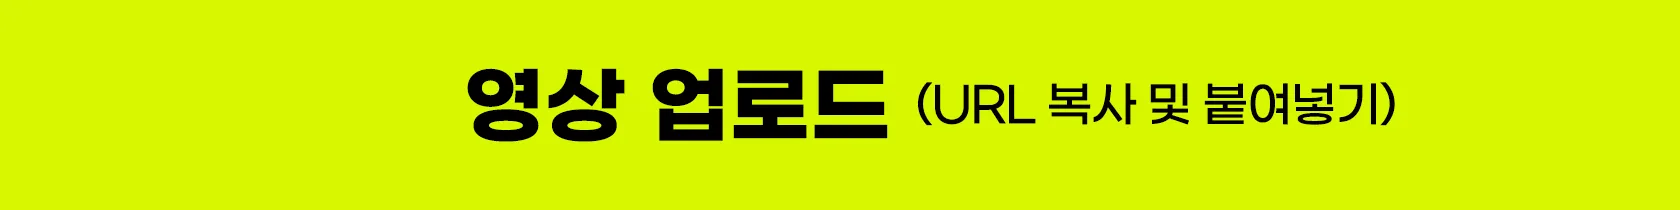
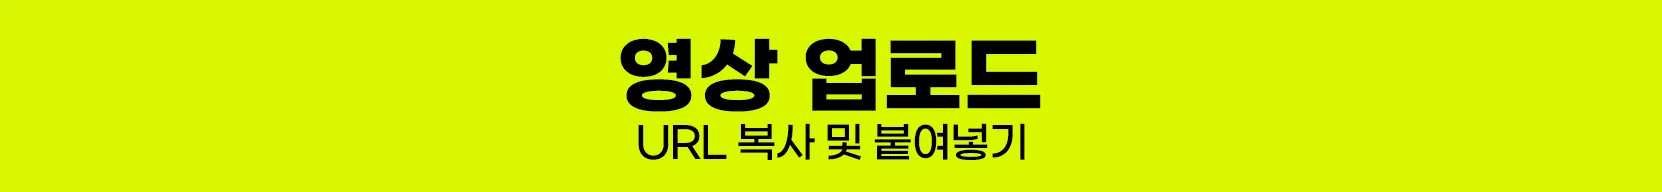
feat: improve event page

Changed region(s): [[0.2762, 0.1875, 0.8285, 0.8438]]

diff --git a/src/app/(home)/_components/EnterInformation.tsx b/src/app/(home)/_components/EnterInformation.tsx
@@ -62,107 +62,110 @@ const EnterInformation = () => {
   }, [showModal])
 
   return (
-    <div className='w-full bg-black min-h-screen bg-[url("/images/information/08-rights-bg.webp")] bg-no-repeat bg-contain h-[300px] lg:h-[1100px]'>
-      <div className='container max-w-[1250px] mx-auto relative'>
-        <Image
-          src={"/images/information/do-05-shoes.webp"}
-          alt=""
-          width={isMobile ? 300 : 680}
-          height={710}
-          className="absolute top-20 left-0 -translate-x-[650px] object-contain z-50 hidden 3xl:block"
-        />
-        <div className='flex flex-col items-center pt-20 lg:pt-0'>
-          <div className='relative mb-[39px]'>
-            <Image src='/images/participate/05-titlebox.webp' alt='' width={110} height={52} />
-            <p className='absolute top-1 left-[33%] text-[#1a1a1a] text-[32px] font-bold'>03</p>
-          </div>
-          <p className='text-white text-3xl lg:text-[40px] font-bold mb-[35px] lg:leading-[53px] lg:-tracking-[0.8px]'>신청자 정보를 <br />
-            입력해 주세요!
-          </p>
+    <div className='w-full bg-[#1b1e9d]'>
+      <div className='md:bg-[url("/images/information/08-rights-bg.webp")] bg-opacity-15 bg-no-repeat bg-contain bg-center md:h-[1000px] lg:h-[1313px] aspect-[16/9] 
+      w-full md:w-[800px] md:-translate-x-[60px] lg:w-[1300px] lg:-translate-x-[200px] 2xl:w-[1520px] 2xl:-translate-x-[300px] 3xl:w-[1920px] 3xl:-translate-x-[370px]'>
+        <div className='container max-w-[1250px] mx-auto relative'>
+          <Image
+            src={"/images/information/do-05-shoes.webp"}
+            alt=""
+            width={isMobile ? 300 : 680}
+            height={710}
+            className="absolute -top-40 left-0 -translate-x-[650px] object-contain z-50 hidden 3xl:block"
+          />
+          <div className='flex flex-col items-center pt-20 lg:pt-24'>
+            <div className='relative mb-[39px]'>
+              <Image src='/images/participate/05-titlebox.webp' alt='' width={110} height={52} />
+              <p className='absolute top-1 left-[33%] text-[#1a1a1a] text-[32px] font-bold'>03</p>
+            </div>
+            <p className='text-white text-3xl lg:text-[40px] font-bold mb-[35px] lg:leading-[53px] lg:-tracking-[0.8px]'>신청자 정보를 <br />
+              입력해 주세요!
+            </p>
 
-          <form onSubmit={handleSubmit(onSubmit)} className='flex flex-col items-center gap-[18px]'>
-            <input
-              type="text"
-              placeholder="성함"
-              {...register("name", {
-                // required: true, maxLength: 80 
-              })}
-              className='text-center text-lg lg:text-2xl text-[#b3b3b3] py-4 lg:py-6 px-[60px] lg:px-[120px] outline-none'
-            />
-            <input
-              type="text"
-              placeholder='생년월일'
-              {...register("birthDate",)}
-              className='text-center text-lg lg:text-2xl text-[#b3b3b3] py-4 lg:py-6 px-[60px] lg:px-[120px] outline-none'
-            />
-
-            <input
-              type="tel"
-              placeholder="연락처"
-              {...register("phoneNumber", {
-                // required: "전화번호는 필수입니다",
-                // pattern: {
-                //   value: /^01[0-9]{1}-?[0-9]{3,4}-?[0-9]{4}$/,
-                //   message: "유효하지 않은 전화번호입니다"
-                // },
-                // maxLength: {
-                //   value: 13,
-                //   message: "전화번호는 13자리를 초과할 수 없습니다"
-                // }
-              })}
-              className='text-center text-lg lg:text-2xl text-[#b3b3b3] py-4 lg:py-6 px-[60px] lg:px-[120px] outline-none'
-            />
-            <input
-              type="text"
-              placeholder="이메일"
-              {...register("email", {
-                // required: "이메일은 필수입니다",
-                // pattern: {
-                //   value: /^[a-zA-Z0-9._%+-]+@[a-zA-Z0-9.-]+\.[a-zA-Z]{2,}$/,
-                //   message: "유효하지 않은 이메일 주소입니다"
-                // }
-              })}
-              className='text-center text-lg lg:text-2xl text-[#b3b3b3] py-4 lg:py-6 px-[60px] lg:px-[120px] outline-none'
-            />
-            <input
-              type="url"
-              placeholder="URL"
-              {...register("website", {
-                // required: "URL을 입력해 주세요",
-                // pattern: {
-                //   value: /^(https?:\/\/)?([\da-z.-]+)\.([a-z.]{2,6})([/\w .-]*)*\/?$/,
-                //   message: "유효하지 않은 URL입니다"
-                // }
-              })}
-              className='text-center text-lg lg:text-2xl text-[#b3b3b3] py-4 lg:py-6 px-[60px] lg:px-[120px] outline-none'
-            />
-            <div className='flex items-center gap-5 mt-6'>
+            <form onSubmit={handleSubmit(onSubmit)} className='flex flex-col items-center gap-[18px]'>
               <input
-                type="checkbox"
-                {...register("condition")}
-                className='lg:w-6 lg:h-6 w-5 h-5'
+                type="text"
+                placeholder="성함"
+                {...register("name", {
+                  // required: true, maxLength: 80 
+                })}
+                className='text-center text-lg lg:text-2xl text-[#b3b3b3] py-4 lg:py-6 px-[60px] lg:px-[120px] outline-none'
               />
-              <p className='text-[#8c8c8c] text-lg lg:text-2xl'>개인정보 이용 및 수집에 동의합니다.</p>
-            </div>
-            <button className='mt-10 lg:mt-16 hover:opacity-90' type="submit">
-              <Image
-                src='/images/participate/07-but.webp'
-                alt='numberbox-1'
-                width={isMobile ? 300 : 560}
-                height={70}
-                className='object-contain'
+              <input
+                type="text"
+                placeholder='생년월일'
+                {...register("birthDate",)}
+                className='text-center text-lg lg:text-2xl text-[#b3b3b3] py-4 lg:py-6 px-[60px] lg:px-[120px] outline-none'
               />
-            </button>
-          </form>
-          {showModal && (
-            <div className='fixed inset-0 bg-black bg-opacity-50 flex justify-center items-center z-50' onClick={() => setShowModal(false)}  >
-              <div className='bg-white py-8 px-16 md:px-36 shadow-lg text-center border-2 border-black' onClick={(e) => e.stopPropagation()} >
-                <p className='text-2xl text-black font-bold mb-4'>이벤트 응모 완료! <br />
-                  감사합니다</p>
-                <p className='text-xl text-black font-bold mt-2'>(Complete!)</p>
+
+              <input
+                type="tel"
+                placeholder="연락처"
+                {...register("phoneNumber", {
+                  // required: "전화번호는 필수입니다",
+                  // pattern: {
+                  //   value: /^01[0-9]{1}-?[0-9]{3,4}-?[0-9]{4}$/,
+                  //   message: "유효하지 않은 전화번호입니다"
+                  // },
+                  // maxLength: {
+                  //   value: 13,
+                  //   message: "전화번호는 13자리를 초과할 수 없습니다"
+                  // }
+                })}
+                className='text-center text-lg lg:text-2xl text-[#b3b3b3] py-4 lg:py-6 px-[60px] lg:px-[120px] outline-none'
+              />
+              <input
+                type="text"
+                placeholder="이메일"
+                {...register("email", {
+                  // required: "이메일은 필수입니다",
+                  // pattern: {
+                  //   value: /^[a-zA-Z0-9._%+-]+@[a-zA-Z0-9.-]+\.[a-zA-Z]{2,}$/,
+                  //   message: "유효하지 않은 이메일 주소입니다"
+                  // }
+                })}
+                className='text-center text-lg lg:text-2xl text-[#b3b3b3] py-4 lg:py-6 px-[60px] lg:px-[120px] outline-none'
+              />
+              <input
+                type="url"
+                placeholder="URL"
+                {...register("website", {
+                  // required: "URL을 입력해 주세요",
+                  // pattern: {
+                  //   value: /^(https?:\/\/)?([\da-z.-]+)\.([a-z.]{2,6})([/\w .-]*)*\/?$/,
+                  //   message: "유효하지 않은 URL입니다"
+                  // }
+                })}
+                className='text-center text-lg lg:text-2xl text-[#b3b3b3] py-4 lg:py-6 px-[60px] lg:px-[120px] outline-none'
+              />
+              <div className='flex items-center gap-5 mt-6'>
+                <input
+                  type="checkbox"
+                  {...register("condition")}
+                  className='lg:w-6 lg:h-6 w-5 h-5'
+                />
+                <p className='text-[#8c8c8c] text-lg lg:text-2xl'>개인정보 이용 및 수집에 동의합니다.</p>
               </div>
-            </div>
-          )}
+              <button className='mt-10 lg:mt-16 hover:opacity-90' type="submit">
+                <Image
+                  src='/images/participate/07-but.webp'
+                  alt='numberbox-1'
+                  width={isMobile ? 300 : 560}
+                  height={70}
+                  className='object-contain'
+                />
+              </button>
+            </form>
+            {showModal && (
+              <div className='fixed inset-0 bg-[#1b1e9d] bg-opacity-50 flex justify-center items-center z-50' onClick={() => setShowModal(false)}  >
+                <div className='bg-white py-8 px-16 md:px-36 shadow-lg text-center border-2 border-black' onClick={(e) => e.stopPropagation()} >
+                  <p className='text-2xl text-black font-bold mb-4'>이벤트 응모 완료! <br />
+                    감사합니다</p>
+                  <p className='text-xl text-black font-bold mt-2'>(Complete!)</p>
+                </div>
+              </div>
+            )}
+          </div>
         </div>
       </div>
     </div>

diff --git a/src/app/(home)/_components/ParticipateEvent.tsx b/src/app/(home)/_components/ParticipateEvent.tsx
@@ -7,7 +7,8 @@ import EnterInformation from './EnterInformation';
 const ParticipateEvent = () => {
   const screenSize = useScreenSize();
   const isMobile =
-    screenSize === "xs" || screenSize === "sm" || screenSize === "md";
+    screenSize === "xs" || screenSize === "sm";
+  const isTablet = screenSize === "md" || screenSize === "lg"
   const isLapTop = screenSize === "2xl"
 
   const [enterInfoElement, setEnterInfoElement] = useState<HTMLDivElement | null>(null)
@@ -16,19 +17,19 @@ const ParticipateEvent = () => {
     enterInfoElement?.scrollIntoView({ behavior: 'smooth' })
   }
   return (
-    <div className='w-full'>
+    <div className='w-full bg-[#1b1e9d]'>
       <div className='container max-w-[1000px] 3xl:max-w-[1250px] mx-auto relative'>
         <Image
           src={"/images/information/do-04-con.webp"}
           alt=""
           width={isMobile ? 300 : 417}
           height={615}
-          className="absolute top-[38%] right-0 translate-x-[460px] object-contain z-50 hidden 3xl:block"
+          className="absolute top-[22%] right-0 translate-x-[460px] object-contain z-50 hidden 3xl:block"
         />
         {/* Event Card 1 */}
         <div className='py-28 lg:py-[135px]'>
-          <section className='flex flex-col items-center'>
-            <h3 className='text-[#158145] text-4xl lg:text-[64px] font-bold mb-10 lg:mb-[88px]'>이벤트 참여방법</h3>
+          <h3 className='text-[#d8f700] text-4xl lg:text-[64px] font-bold mb-10 lg:mb-[88px] text-center'>이벤트 참여방법</h3>
+          <section className='flex flex-col items-center opacity-50'>
             <div className='relative mb-[39px]'>
               <Image src='/images/participate/05-titlebox.webp' alt='' width={110} height={52} />
               <p className='absolute top-1 left-[33%] text-[#1a1a1a] text-[32px] font-bold'>01</p>
@@ -39,23 +40,23 @@ const ParticipateEvent = () => {
 
             <div className='mt-[72px] relative'>
               <Image src='/images/participate/05-all-box.webp' alt='' width={1250} height={566} className='object-contain' />
-              <div className='absolute top-5 xs:top-8 lg:top-16 3xl:top-20 left-[58%]'>
-                <p className='text-white text-xs md:text-sm lg:text-3xl 3xl:text-[40px] font-bold mb-4 lg:mb-[69px] lg:-tracking-[0.8px] 3xl:leading-[52px]'>사전 응원 영상 이벤트 <br />
+              <div className='absolute top-5 xxs:top-8 xs:top-10 md:top-20 lg:top-24 2xl:top-16 3xl:top-32 left-[58%]'>
+                <p className='text-white text-xs xs:text-sm md:text-2xl lg:text-3xl 3xl:text-[40px] font-bold mb-4 lg:mb-[50px] lg:-tracking-[0.8px] 3xl:leading-[52px]'>사전 응원 영상 이벤트 <br />
                   참여 방법</p>
-                <div className='flex gap-2 md:gap-3 items-start mb-3 lg:mb-[53px]'>
-                  <Image src='/images/participate/05-numberbox-1.webp' alt='numberbox-1' width={isMobile ? 10 : isLapTop ? 20 : 30} height={isMobile ? 10 : isLapTop ? 20 : 30} className='object-contain' />
-                  <p className='text-white text-[8px] md:text-[10px] lg:text-2xl 3xl:text-[28px] font-medium lg:-translate-y-2 3xl:leading-[40px]'>유튜브 숏츠, 인스타, 틱톡에
+                <div className='flex gap-2 md:gap-3 items-start mb-3 lg:mb-[40px]'>
+                  <Image src='/images/participate/05-numberbox-1.webp' alt='numberbox-1' width={isMobile ? 10 : isTablet ? 15 : isLapTop ? 20 : 30} height={isMobile ? 10 : isTablet ? 15 : isLapTop ? 20 : 30} className='object-contain' />
+                  <p className='text-white text-[8px] md:text-lg lg:text-2xl 3xl:text-[28px] font-medium lg:-translate-y-2 3xl:leading-[40px]'>유튜브 숏츠, 인스타, 틱톡에
                     <br />
                     <span className='text-[#d8f700]'>세로용 영상</span>을 업로드하기</p>
                 </div>
                 <div className='flex gap-2 md:gap-3 items-start'>
-                  <Image src='/images/participate/05-numberbox-2.webp' alt='numberbox-2' width={isMobile ? 10 : isLapTop ? 20 : 30} height={isMobile ? 10 : isLapTop ? 20 : 30} className='object-contain' />
-                  <p className='text-white text-[8px] md:text-[10px] lg:text-2xl 3xl:text-[28px] font-medium lg:-translate-y-2 3xl:leading-[40px]'><span className='text-[#d8f700]'>URL을 복사</span>하고 <br />
+                  <Image src='/images/participate/05-numberbox-2.webp' alt='numberbox-2' width={isMobile ? 10 : isTablet ? 15 : isLapTop ? 20 : 30} height={isMobile ? 10 : isTablet ? 15 : isLapTop ? 20 : 30} className='object-contain' />
+                  <p className='text-white text-[8px] md:text-lg lg:text-2xl 3xl:text-[28px] font-medium lg:-translate-y-2 3xl:leading-[40px]'><span className='text-[#d8f700]'>URL을 복사</span>하고 <br />
                     아래에 입력하여 업로드하기</p>
                 </div>
               </div>
             </div>
-            <button className='mt-10 lg:mt-[61px] hover:opacity-90' onClick={handleScroll}>
+            <button className='mt-10 lg:mt-[61px] hover:opacity-80' onClick={handleScroll}>
               <Image src='/images/participate/05-but.webp' alt='05-but' width={isMobile ? 300 : 560} height={70} className='object-contain' />
             </button>
           </section>
@@ -71,24 +72,24 @@ const ParticipateEvent = () => {
 
             <div className='mt-[72px] relative'>
               <Image src='/images/participate/06-all-box.webp' alt='' width={1250} height={566} className='object-contain' />
-              <div className='absolute top-4 xs:top-6 lg:top-10 3xl:top-16 left-[58%]'>
-                <p className='text-white text-xs md:text-sm lg:text-4xl 3xl:text-[40px] font-bold mb-3 lg:mb-10 lg:-tracking-[0.8px] 3xl:leading-[52px]'>관람 인증 이벤트 <br />
+              <div className='absolute top-4 xxs:top-6 xs:top-8 md:top-16 lg:top-10 3xl:top-28 left-[58%]'>
+                <p className='text-white text-xs xs:text-sm md:text-3xl lg:text-4xl 3xl:text-[40px] font-bold mb-3 lg:mb-8 lg:-tracking-[0.8px] 3xl:leading-[52px]'>관람 인증 이벤트 <br />
                   참여 방법</p>
-                <div className='flex gap-2 md:gap-3 items-start mb-2 lg:mb-10'>
-                  <Image src='/images/participate/05-numberbox-1.webp' alt='numberbox-1' width={isMobile ? 10 : isLapTop ? 20 : 30} height={isMobile ? 10 : isLapTop ? 20 : 30} className='object-contain' />
-                  <p className='text-white text-[8px] md:text-[10px] lg:text-xl 3xl:text-[28px] font-medium -translate-y-0.5 lg:-translate-y-1 3xl:-translate-y-2 3xl:leading-[40px]'>SOOP 방송 시청 화면과 <br />
+                <div className='flex gap-2 md:gap-3 items-start mb-2 lg:mb-8'>
+                  <Image src='/images/participate/05-numberbox-1.webp' alt='numberbox-1' width={isMobile ? 10 : isTablet ? 15 : isLapTop ? 20 : 30} height={isMobile ? 10 : isTablet ? 15 : isLapTop ? 20 : 30} className='object-contain' />
+                  <p className='text-white text-[8px] md:text-base lg:text-xl 3xl:text-[28px] font-medium -translate-y-0.5 lg:-translate-y-1 3xl:-translate-y-2 3xl:leading-[40px]'>SOOP 방송 시청 화면과 <br />
                     응원하는 모습
                     <span className='text-[#d8f700]'>캡쳐하기</span></p>
                 </div>
-                <div className='flex gap-2 md:gap-3 items-start mb-2 lg:mb-10'>
-                  <Image src='/images/participate/05-numberbox-2.webp' alt='numberbox-2' width={isMobile ? 10 : isLapTop ? 20 : 30} height={isMobile ? 10 : isLapTop ? 20 : 30} className='object-contain' />
-                  <p className='text-white text-[8px] md:text-[10px] lg:text-xl 3xl:text-[28px] font-medium -translate-y-0.5 lg:-translate-y-1 3xl:-translate-y-2 3xl:leading-[40px]'>유튜브 숏츠, 인스타, 틱톡에 <br />
+                <div className='flex gap-2 md:gap-3 items-start mb-2 lg:mb-8'>
+                  <Image src='/images/participate/05-numberbox-2.webp' alt='numberbox-2' width={isMobile ? 10 : isTablet ? 15 : isLapTop ? 20 : 30} height={isMobile ? 10 : isTablet ? 15 : isLapTop ? 20 : 30} className='object-contain' />
+                  <p className='text-white text-[8px] md:text-base lg:text-xl 3xl:text-[28px] font-medium -translate-y-0.5 lg:-translate-y-1 3xl:-translate-y-2 3xl:leading-[40px]'>유튜브 숏츠, 인스타, 틱톡에 <br />
                     <span className='text-[#d8f700]'>세로용 영상</span>을 업로드하기</p>
                 </div>
 
                 <div className='flex gap-2 md:gap-3 items-start'>
-                  <Image src='/images/participate/06-numberbox-3.webp' alt='numberbox-3' width={isMobile ? 10 : isLapTop ? 20 : 30} height={isMobile ? 10 : isLapTop ? 20 : 30} className='object-contain' />
-                  <p className='text-white text-[8px] md:text-[10px] lg:text-xl 3xl:text-[28px] font-medium -translate-y-0.5 lg:-translate-y-1 3xl:-translate-y-2'>
+                  <Image src='/images/participate/06-numberbox-3.webp' alt='numberbox-3' width={isMobile ? 10 : isTablet ? 15 : isLapTop ? 20 : 30} height={isMobile ? 10 : isTablet ? 15 : isLapTop ? 20 : 30} className='object-contain' />
+                  <p className='text-white text-[8px] md:text-base lg:text-xl 3xl:text-[28px] font-medium -translate-y-0.5 lg:-translate-y-1 3xl:-translate-y-2'>
                     <span className='text-[#d8f700]'>URL을 복사</span>하여 업로드하기</p>
                 </div>
               </div>
